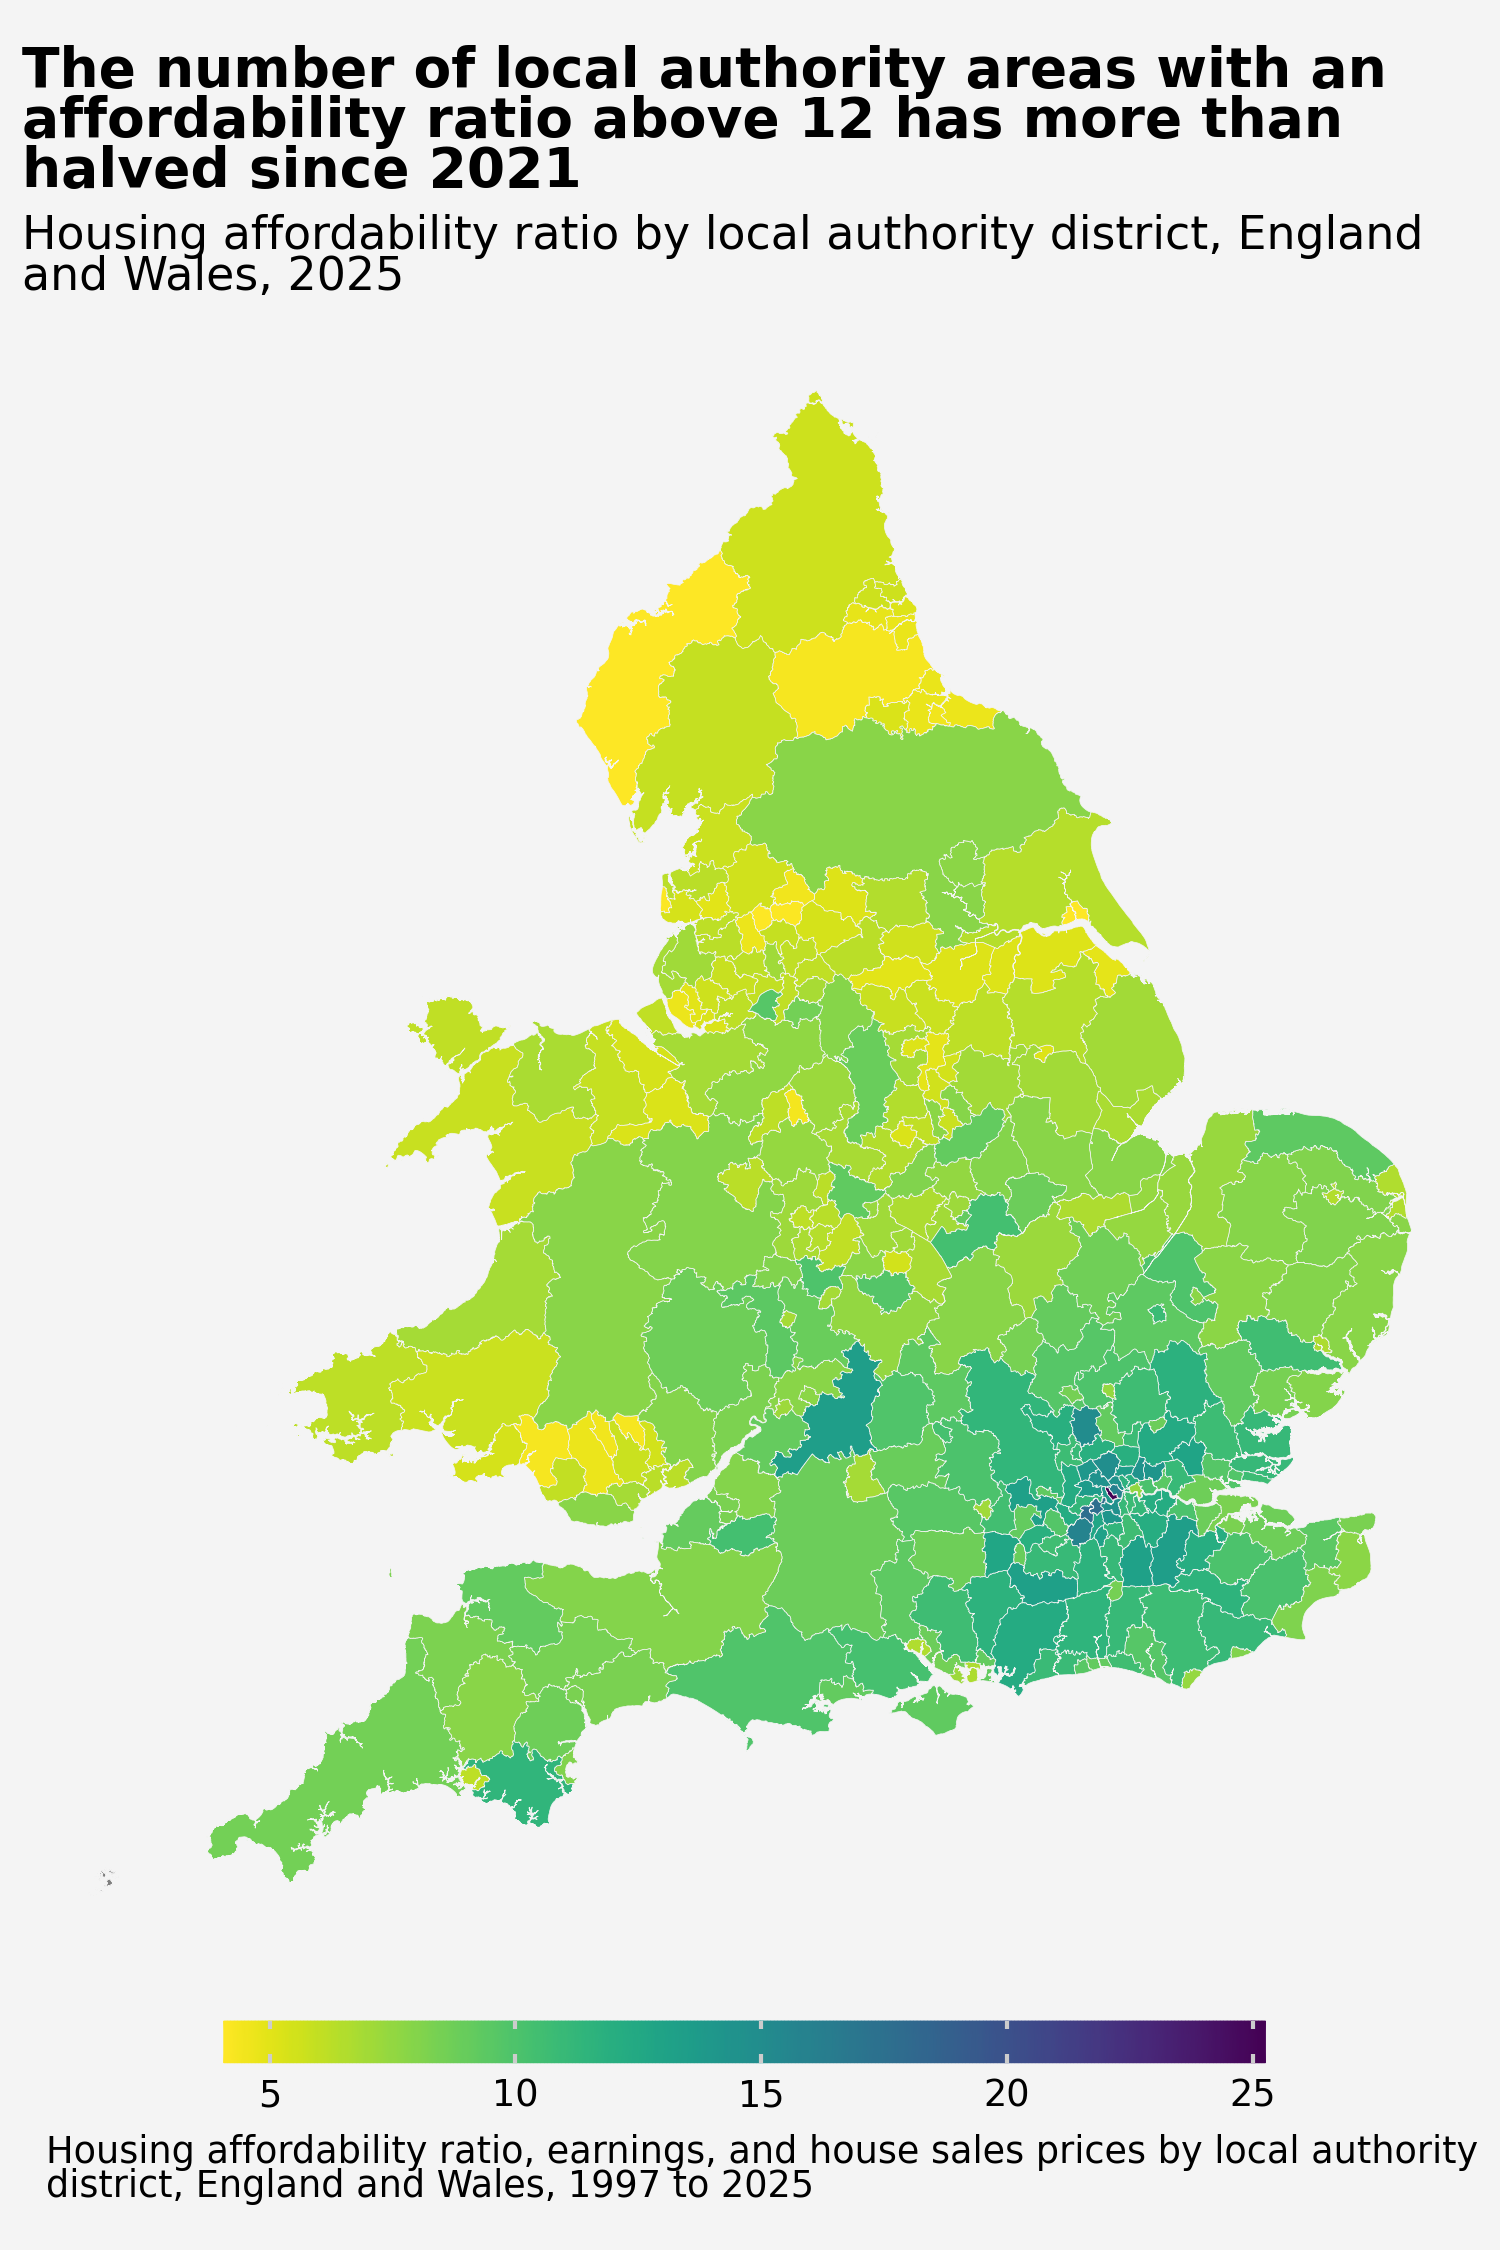
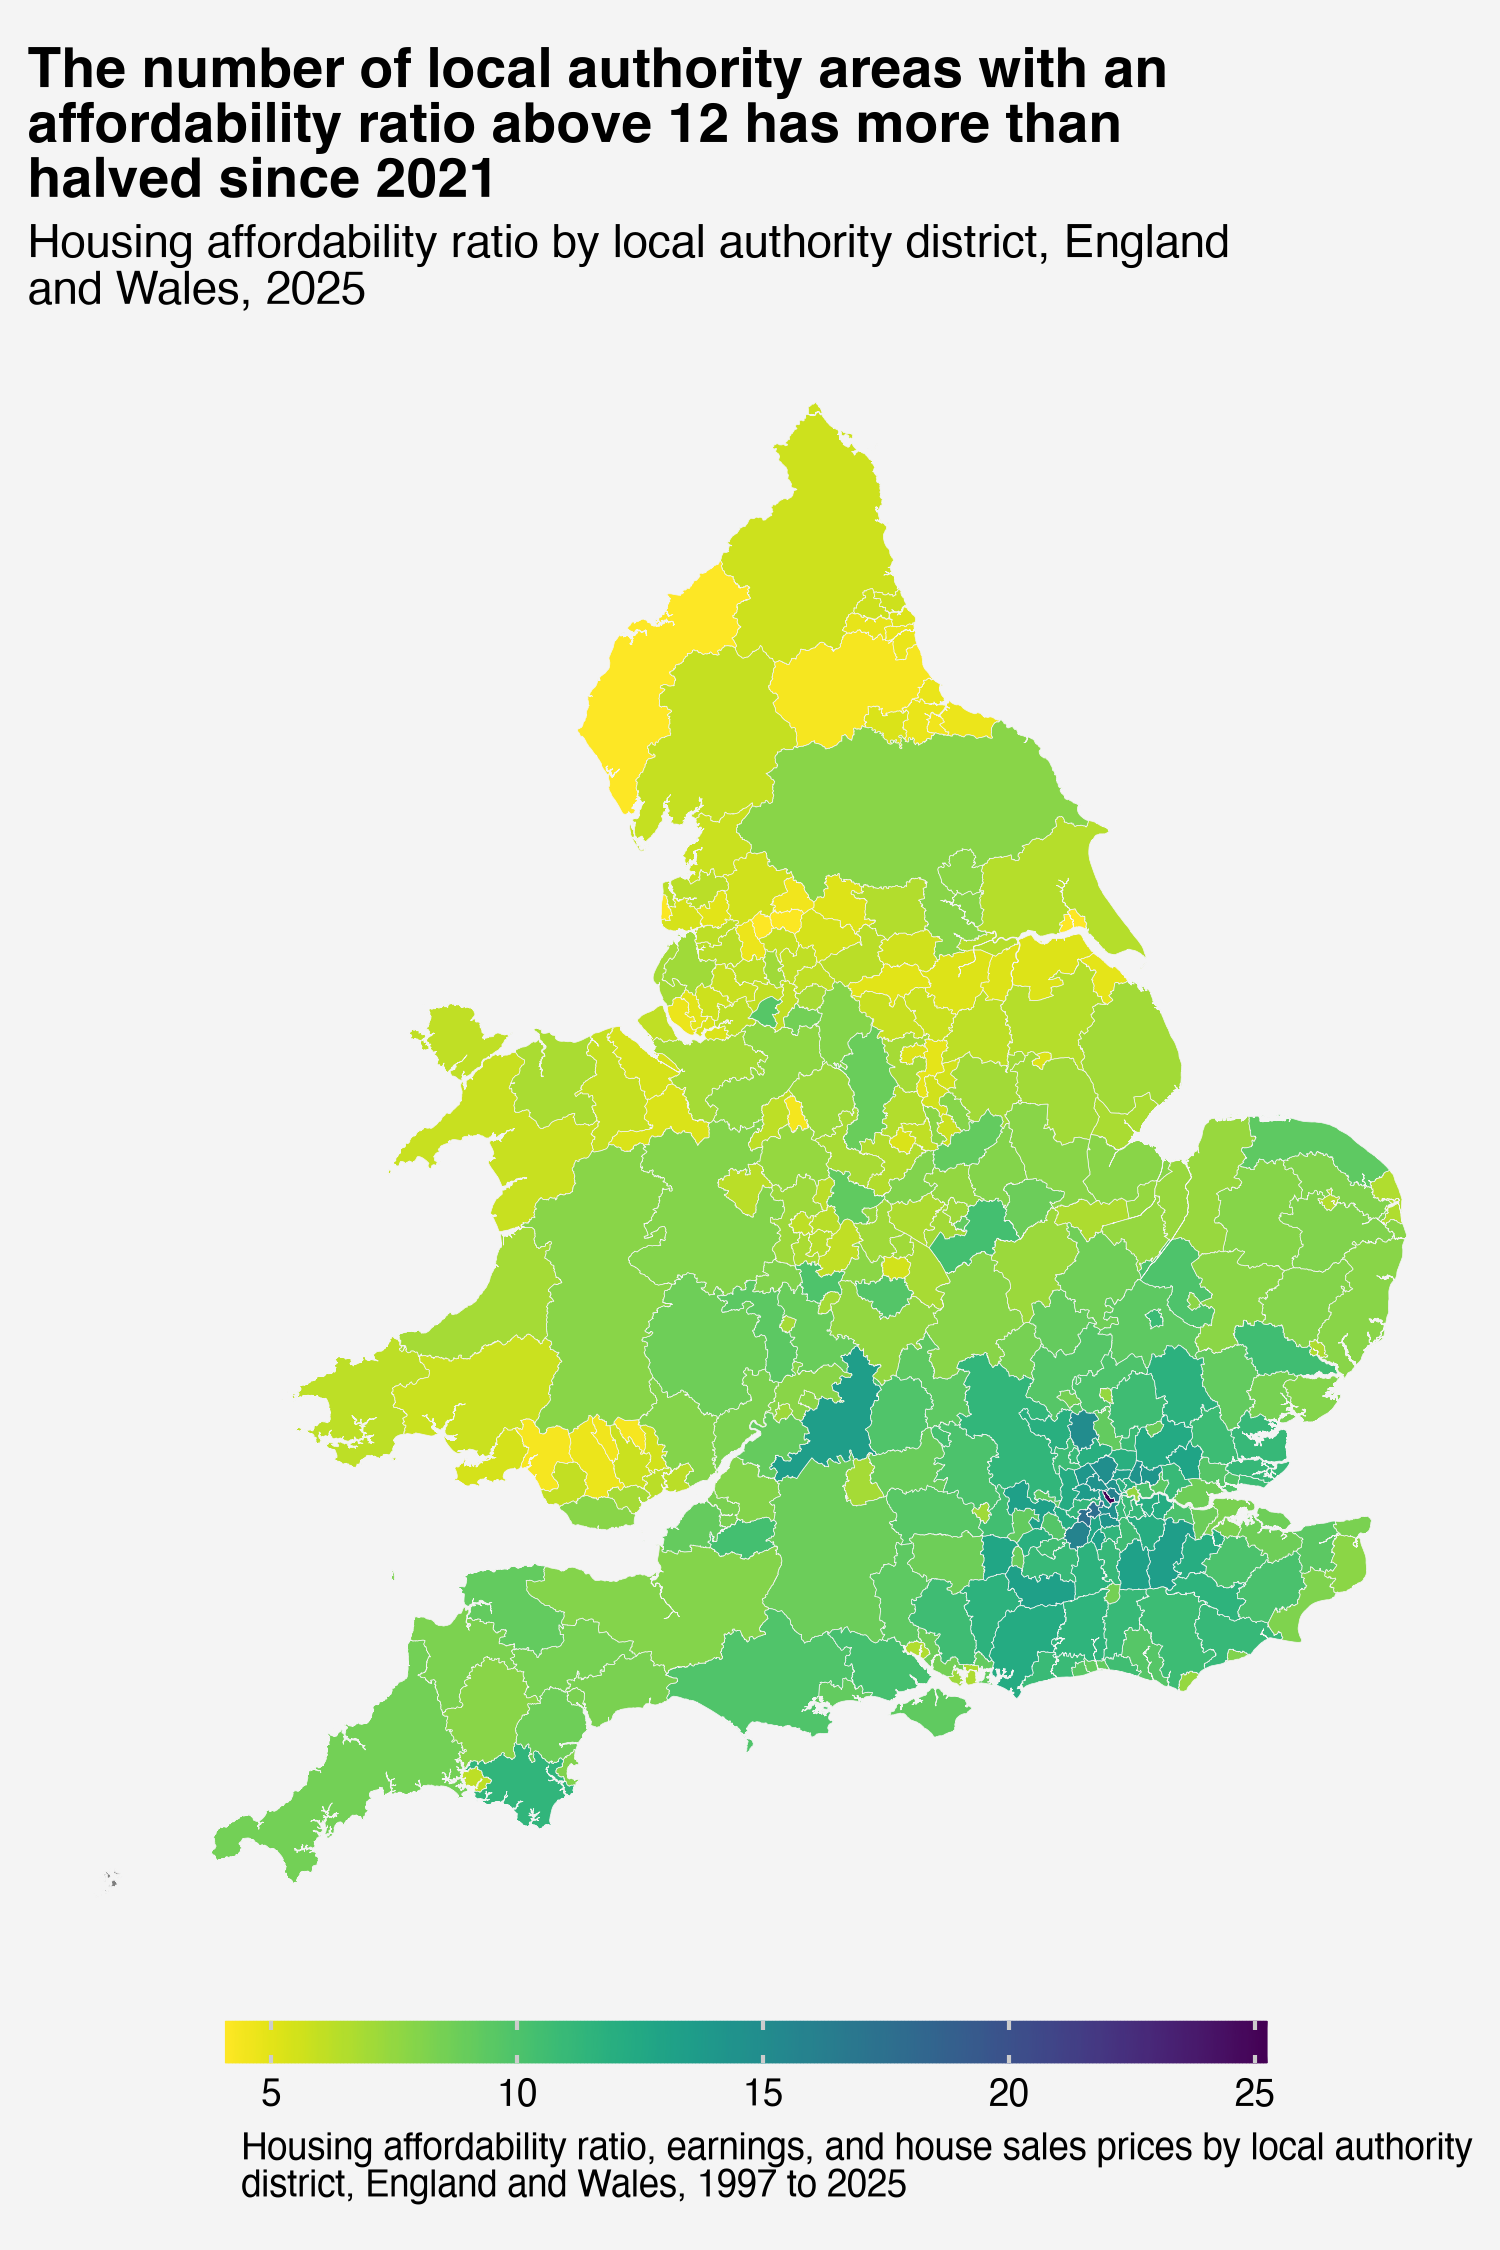
Update file paths to work with 2026 as a python proj

diff --git a/2026/src/day_27/main.py b/2026/src/day_27/main.py
@@ -5,9 +5,9 @@ import plotnine as pn
 import textwrap
 
 # Load data
-ratios = pd.read_csv('2026/data/affordability.csv')
+ratios = pd.read_csv('data/affordability.csv')
 
-gdf = gp.read_file("2026/data/lad.geojson")
+gdf = gp.read_file("data/lad.geojson")
 gdf = gdf[gdf["LAD25CD"].str.startswith(("E", "W"))]
 gdf = gdf.to_crs("EPSG:27700")
 
@@ -56,4 +56,4 @@ p = (
 )
 
 # Save
-pn.ggsave(p, filename="2026/maps/day_27.png", height=7.5, width=5, dpi=300)
+pn.ggsave(p, filename="maps/day_27.png", height=7.5, width=5, dpi=300)

diff --git a/2026/src/day_27/README.md b/2026/src/day_27/README.md
@@ -1,0 +1,7 @@
+This project uses `uv` to manage Python environments.
+
+From the `2026` directory, run:
+
+```
+uv run src/day_27/main.py
+```
